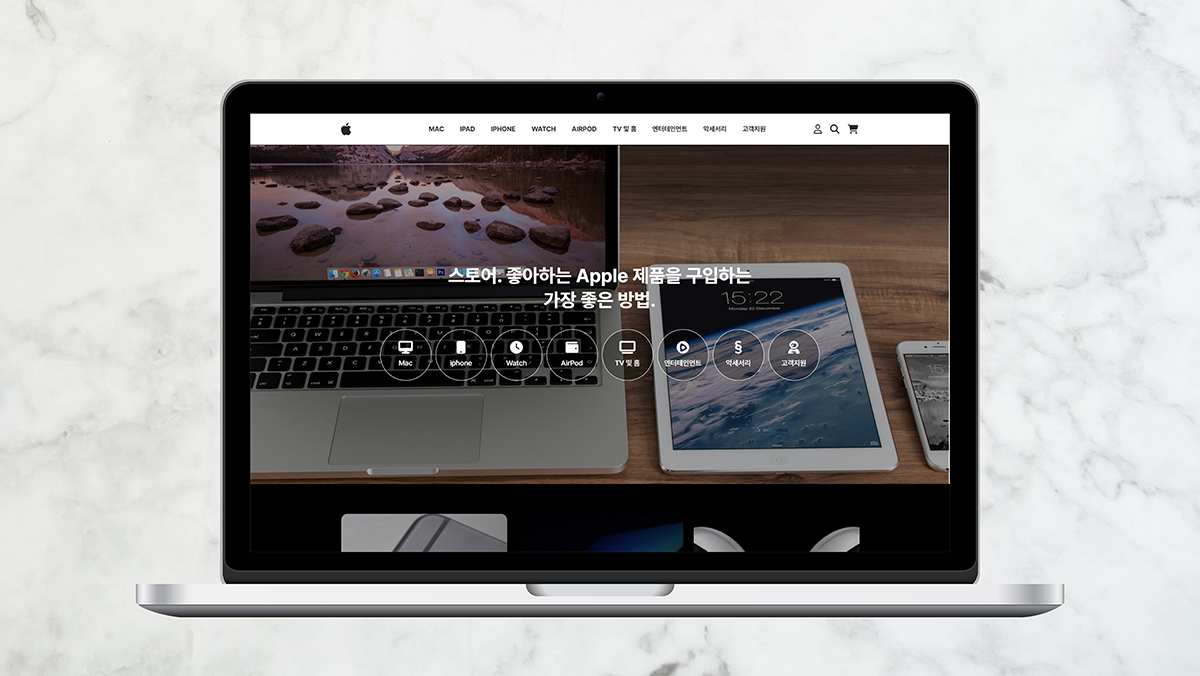
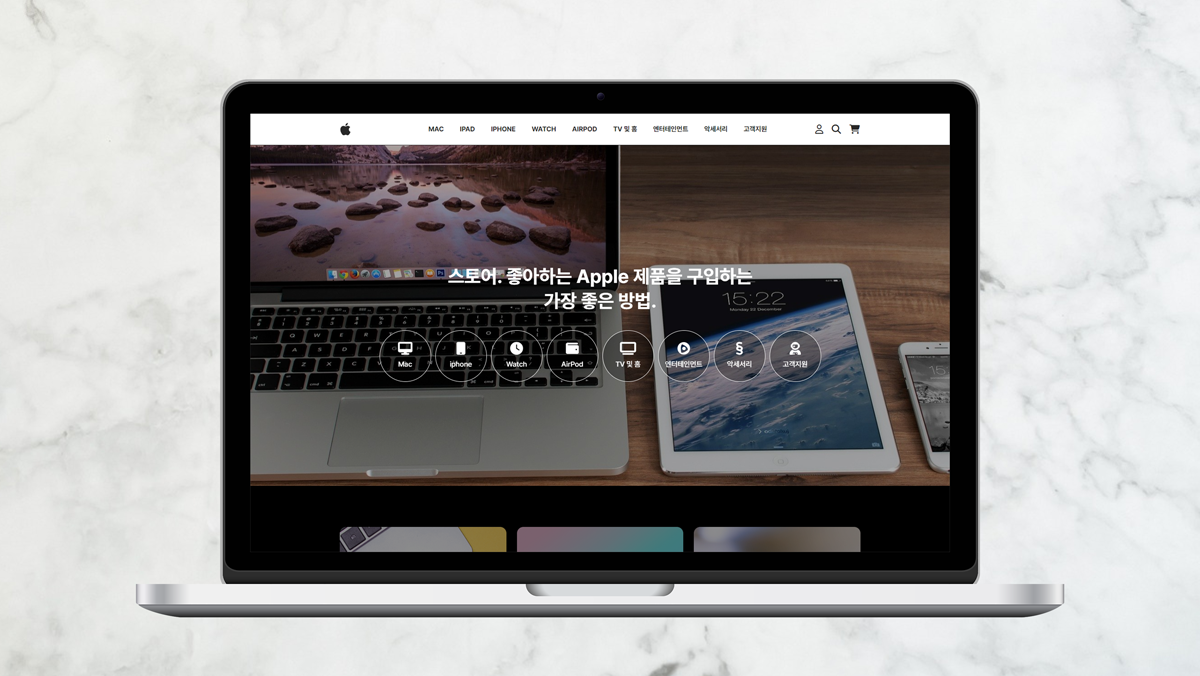
ver 2.1.6

diff --git a/index.html b/index.html
@@ -127,15 +127,26 @@
           </div>
         </div>
         <div class="carousel-cell">
-          <img src="./images/bg_desk.png" alt="">
+          <img src="./images/project_apple.png" alt="apple">
           <div class="text-group">
-            <h3 class="text-group-title">준비중</h3>
+            <h3 class="text-group-title">애플</h3>
+            <ul>
+              <li class="description">애플 홈페이지를 리뉴얼하였습니다. 브랜드 특유의 심플함과 고급스러움을 살리기 위해 노력했습니다.</li>
+              <li class="info">
+                <span>참여도</span> 100% 개인작업<br>
+                <span>사용툴</span> HTML / CSS / JS<br>
+              </li>
+            </ul>
+            <div class="btn-wrap">
+              <a class="view" href="https://www.apple.com/kr/store?afid=p238%7CsiADh6hbK-dc_mtid_18707vxu38484_pcrid_701231326272_pgrid_16348496961_pntwk_g_pchan__pexid__ptid_kwd-304236833465_&cid=aos-kr-kwgo-Brand--slid---product-" target="_blank"><i class="fa-regular fa-eye"></i> BEFORE</a>
+              <a class="go-site" href="https://henian12342.github.io/apple/" target="_blank"><i class="fa-solid fa-link"></i> GO SITE</a>
+            </div>
           </div>
         </div>
         <div class="carousel-cell">
           <img src="./images/bg_desk.png" alt="demo3">
           <div class="text-group">
-            <h3 class="text-group-title">준비중</h3>
+            <h3 class="text-group-title">TOMMY HILFIGER</h3>
           </div>
         </div>
         <div class="carousel-cell">
@@ -194,6 +205,20 @@
             </ul>
           </div>
           <a href="https://henian12342.github.io/starbucks/" class="go-site"><i class="fa-solid fa-link"></i> go site</a>
+        </div>
+        <div class="project-item">
+          <div class="photo"><img src="./images/project_apple.png" alt=""></div>
+          <div class="text">
+            <h2>애플</h2>
+            <ul>
+              <li>애플 홈페이지를 리뉴얼하였습니다. 브랜드 특유의 심플함과 고급스러움을 살리기 위해 노력했습니다.</li>
+              <li class="info">
+                <span>참여도</span> 100% 개인작업<br>
+                <span>제작툴</span> html, css, js
+              </li>
+            </ul>
+          </div>
+          <a href="https://henian12342.github.io/apple/" class="go-site"><i class="fa-solid fa-link"></i> go site</a>
         </div>
       </div>
       <div class="content graphicDesign">
